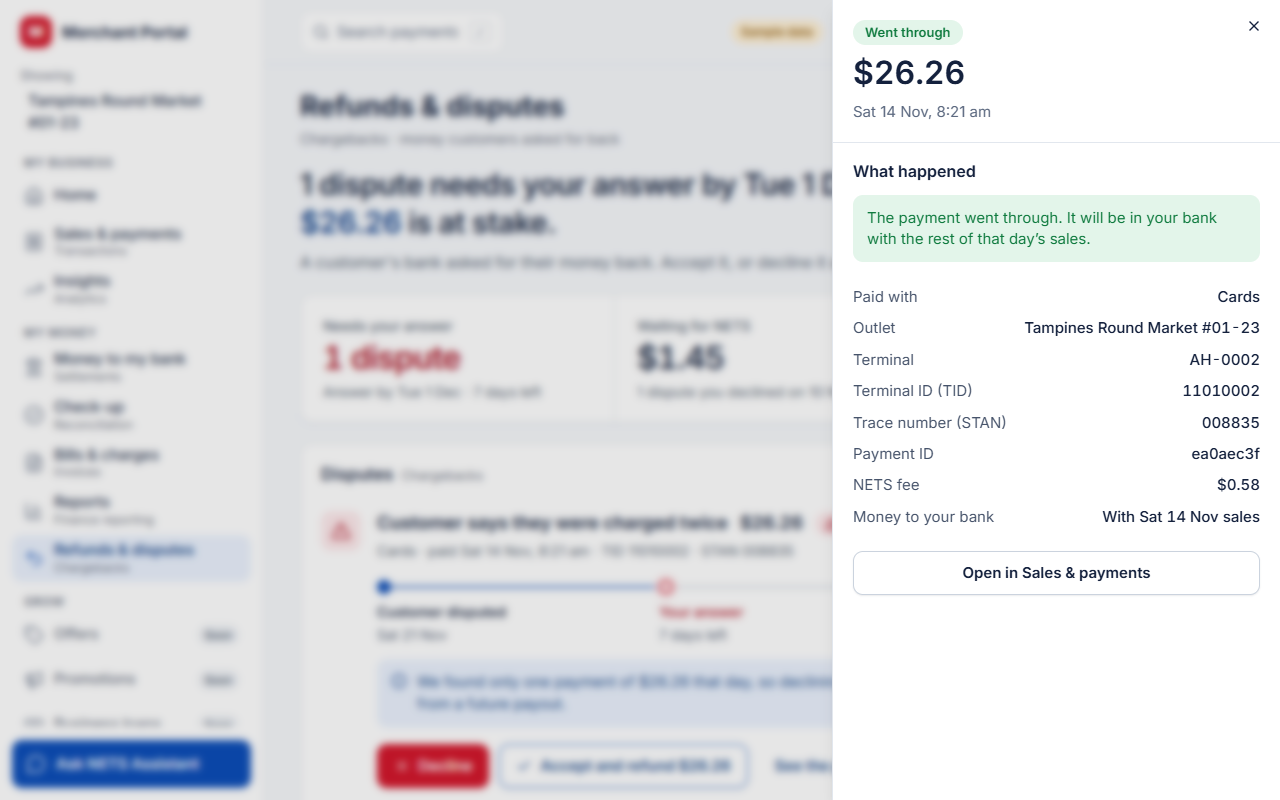
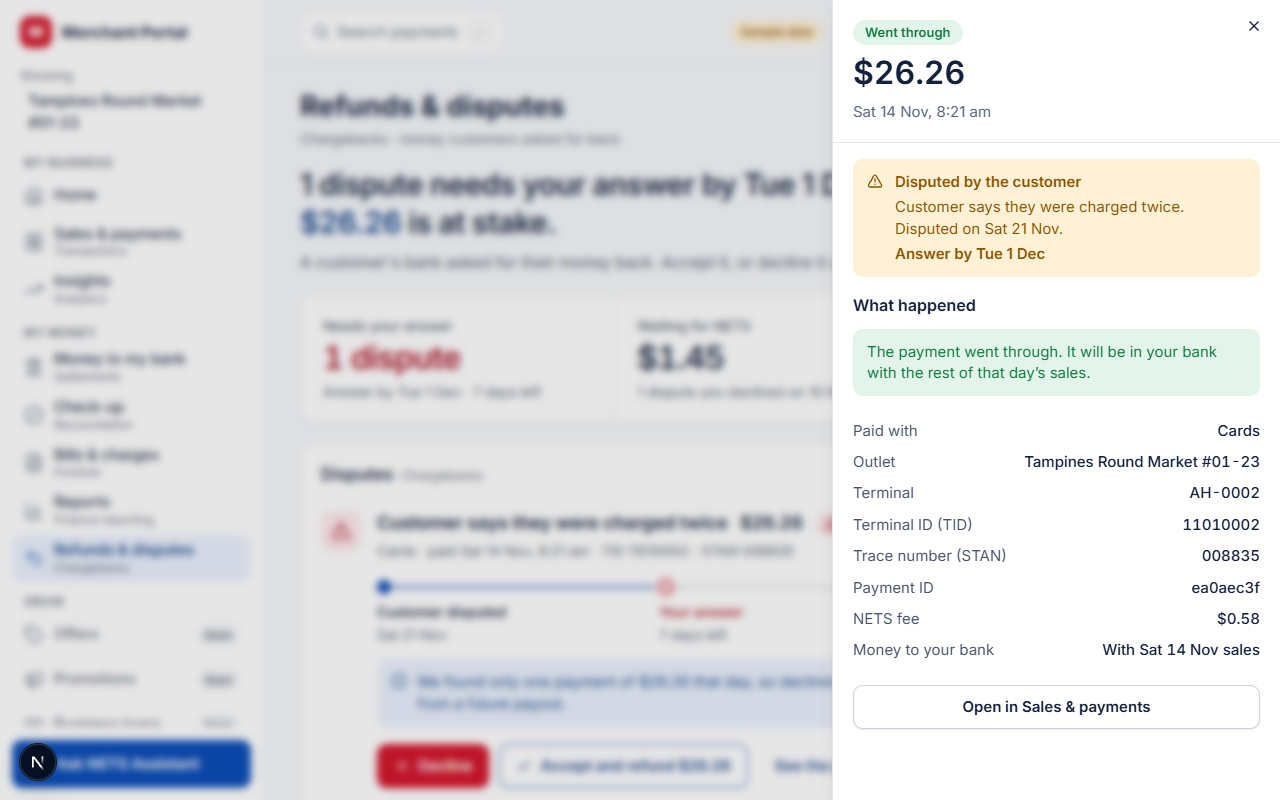
feat(disputes): amber Disputed by the customer note in the payment panel
A disputed payment's panel shows the reason, the dispute date and its status above What happened, in amber so it stands apart from the green, red and blue boxes (amber picked over red).

diff --git a/components/transactions/TxnDrawer.jsx b/components/transactions/TxnDrawer.jsx
@@ -5,6 +5,7 @@ import Link from 'next/link'
 import { useRouter } from 'next/navigation'
 import { Sheet, SheetContent, SheetDescription, SheetHeader, SheetTitle } from '@/components/ui/sheet'
 import { useReducedMotion } from '@/components/dashboard/use-reduced-motion'
+import { AlertTriangle } from 'lucide-react'
 
 /** How long the drawer takes to slide in or out (keep in step with the duration classes below). */
 const SLIDE_MS = 300
@@ -15,6 +16,7 @@ const PILL = {
   mute: 'bg-mute-bg text-mute',
 }
 const BOX = {
+  warn: 'bg-warn-bg text-warn',
   bad: 'bg-bad-bg text-bad',
   info: 'bg-info-bg text-info',
   ok: 'bg-ok-bg text-ok',
@@ -28,9 +30,11 @@ const BOX = {
  * (changing it straight away would remove the drawer before its exit animation could play).
  * With reduced motion the drawer closes at once.
  * `moreHref`/`moreLabel` add a link to the full page (used where the panel opens on another page, e.g. Refunds & disputes).
- * @param {{detail: ReturnType<import('@/lib/transactions/format').toDetailView>, closeHref: string, moreHref?: string, moreLabel?: string}} props
+ * `notice` adds a highlighted note above "What happened" (Refunds & disputes uses it to say the payment is disputed).
+ * @param {{detail: ReturnType<import('@/lib/transactions/format').toDetailView>, closeHref: string, moreHref?: string, moreLabel?: string,
+ *   notice?: {title: string, text: string, status: string, tone?: 'warn' | 'bad' | 'info'}}} props
  */
-export function TxnDrawer({ detail, closeHref, moreHref, moreLabel }) {
+export function TxnDrawer({ detail, closeHref, moreHref, moreLabel, notice }) {
   const router = useRouter()
   const reduceMotion = useReducedMotion()
   const [open, setOpen] = useState(true)
@@ -67,6 +71,16 @@ export function TxnDrawer({ detail, closeHref, moreHref, moreLabel }) {
               <SheetTitle className="text-[32px] leading-tight font-semibold tabular-nums">{detail.amount}</SheetTitle>
               <SheetDescription className="text-[15px]">{detail.when}</SheetDescription>
             </SheetHeader>
+            {notice ? (
+              <div data-testid="payment-notice" className={`mx-5 flex gap-3 rounded-lg px-3.5 py-3 text-[15px] ${BOX[notice.tone ?? 'warn']}`}>
+                <AlertTriangle className="mt-0.5 size-4 flex-none" aria-hidden="true" />
+                <div className="flex flex-col gap-1">
+                  <b className="font-semibold">{notice.title}</b>
+                  <span>{notice.text}</span>
+                  <span className="font-semibold">{notice.status}</span>
+                </div>
+              </div>
+            ) : null}
             <div className="flex flex-col gap-3 px-5">
               <h3 className="text-base font-semibold">What happened</h3>
               <p className={`rounded-lg px-3.5 py-3 text-[15px] ${BOX[detail.plainTone]}`}>{detail.plain}</p>

diff --git a/app/(portal)/disputes/page.jsx b/app/(portal)/disputes/page.jsx
@@ -7,7 +7,7 @@ import { toDetailView } from '@/lib/transactions/format'
 import { TxnDrawer } from '@/components/transactions/TxnDrawer'
 import { sgtDate } from '@/lib/dates'
 import { canRespond, viewOnlyNote } from '@/lib/disputes/rules'
-import { buildDisputesPage, paymentHref, refundsRange } from '@/lib/disputes/view'
+import { buildDisputesPage, disputeNotice, paymentHref, refundsRange } from '@/lib/disputes/view'
 import { StatTile } from '@/components/dashboard/StatTile'
 import { DisputesPanel } from '@/components/disputes/DisputesPanel'
 import { RefundsTable } from '@/components/disputes/RefundsTable'
@@ -34,6 +34,7 @@ export default async function DisputesPage({ searchParams }) {
   const wanted = typeof sp?.payment === 'string' ? sp.payment : null
   const onPage = new Set([...disputes.map((d) => d.transactionId), ...refunds.map((r) => r.transactionId)])
   const payment = wanted && onPage.has(wanted) ? await getTransaction(merchant.id, wanted) : null
+  const disputedPayment = payment ? disputes.find((d) => d.transactionId === payment.id) ?? null : null
   const answers = canRespond(merchant)
   const note = viewOnlyNote(merchant)
 
@@ -88,6 +89,7 @@ export default async function DisputesPage({ searchParams }) {
           closeHref="/disputes"
           moreHref={paymentHref(payment.id, payment.createdAt)}
           moreLabel="Open in Sales & payments"
+          notice={disputedPayment ? { ...disputeNotice(disputedPayment, today), tone: 'warn' } : undefined}
         />
       ) : null}
     </div>

diff --git a/tests/unit/disputes-view.test.js b/tests/unit/disputes-view.test.js
@@ -1,5 +1,5 @@
 import { describe, expect, it } from 'vitest'
-import { buildDisputesPage, drawerHref, fileSize, paymentHref, toRefundView } from '@/lib/disputes/view'
+import { buildDisputesPage, disputeNotice, drawerHref, fileSize, paymentHref, toRefundView } from '@/lib/disputes/view'
 
 const TODAY = '2026-11-23'
 /** @param {Partial<import('@/lib/data/disputes').DisputeRow>} over */
@@ -82,5 +82,17 @@ describe('small helpers', () => {
     expect(fileSize(3_565_158)).toBe('3.4 MB')
     expect(paymentHref('abc', '2026-11-14T17:30:00.000Z')).toBe('/transactions?id=abc&from=2026-11-15&to=2026-11-15')
     expect(drawerHref('abc')).toBe('/disputes?payment=abc')
+  })
+})
+
+describe('disputeNotice', () => {
+  it('says the payment is disputed, why, when, and where the dispute stands', () => {
+    expect(disputeNotice(dispute({}), '2026-11-23')).toEqual({
+      title: 'Disputed by the customer',
+      text: 'Customer says they were charged twice. Disputed on Fri 20 Nov.',
+      status: 'Answer by Mon 30 Nov',
+    })
+    expect(disputeNotice(dispute({ status: 'declined' }), '2026-11-23').status).toBe('Waiting for NETS')
+    expect(disputeNotice(dispute({ status: 'won' }), '2026-11-23').status).toBe('Won, money kept')
   })
 })

diff --git a/lib/disputes/view.js b/lib/disputes/view.js
@@ -55,6 +55,20 @@ export function fileSize(bytes) {
  * @param {string} paidAt ISO UTC
  */
 /**
+ * The note in the payment panel when the payment has a dispute: what the customer said, when, and where it stands.
+ * @param {import('../data/disputes.js').DisputeRow} d
+ * @param {string} today YYYY-MM-DD (SGT)
+ * @returns {{title: string, text: string, status: string}}
+ */
+export function disputeNotice(d, today) {
+  return {
+    title: 'Disputed by the customer',
+    text: `${REASON_TEXT[d.reason]}. Disputed on ${formatDay(d.openedAt)}.`,
+    status: statusPill(d, today).text,
+  }
+}
+
+/**
  * This page with that payment's details open in the side panel (?payment=), so the merchant never leaves it.
  * @param {string} transactionId
  */

diff --git a/tests/e2e/disputes.spec.js b/tests/e2e/disputes.spec.js
@@ -78,6 +78,7 @@ test('TC-DSP-06: payment details open in a side panel and close by clicking outs
   const panel = page.getByRole('dialog')
   await expect(panel).toBeVisible()
   await expect(panel.getByText('What happened')).toBeVisible()
+  await expect(panel.getByTestId('payment-notice')).toContainText('Disputed by the customer')
   await expect(panel.getByRole('link', { name: 'Open in Sales & payments' })).toHaveAttribute('href', /^\/transactions\?id=/)
   await expect(page).toHaveURL(/\/disputes\?payment=/)
 

diff --git a/docs/features/refunds-disputes.md b/docs/features/refunds-disputes.md
@@ -10,7 +10,7 @@ Shows a merchant the money they gave back to customers (refunds) and the cases w
 
 ## Payment details
 
-"See the payment" and the refund dates open the payment in the same side panel Sales & payments uses (`/disputes?payment=<id>`). Clicking outside, Esc or × closes it and the page keeps its place. Only payments of disputes or refunds shown on the page can open, so an outlet manager cannot open another outlet's payment by editing the address. "Open in Sales & payments" inside the panel goes to the full list.
+"See the payment" and the refund dates open the payment in the same side panel Sales & payments uses (`/disputes?payment=<id>`). A disputed payment shows an amber "Disputed by the customer" note above "What happened", with the reason, the date and where the dispute stands (amber picked over red, so it does not look like a failed payment). Clicking outside, Esc or × closes it and the page keeps its place. Only payments of disputes or refunds shown on the page can open, so an outlet manager cannot open another outlet's payment by editing the address. "Open in Sales & payments" inside the panel goes to the full list.
 
 ## How a dispute is answered
 - Each open dispute shows a 3-step track (Customer disputed, Your answer, NETS decides), the reason in plain words, a hint on what proof helps, and the deadline.
